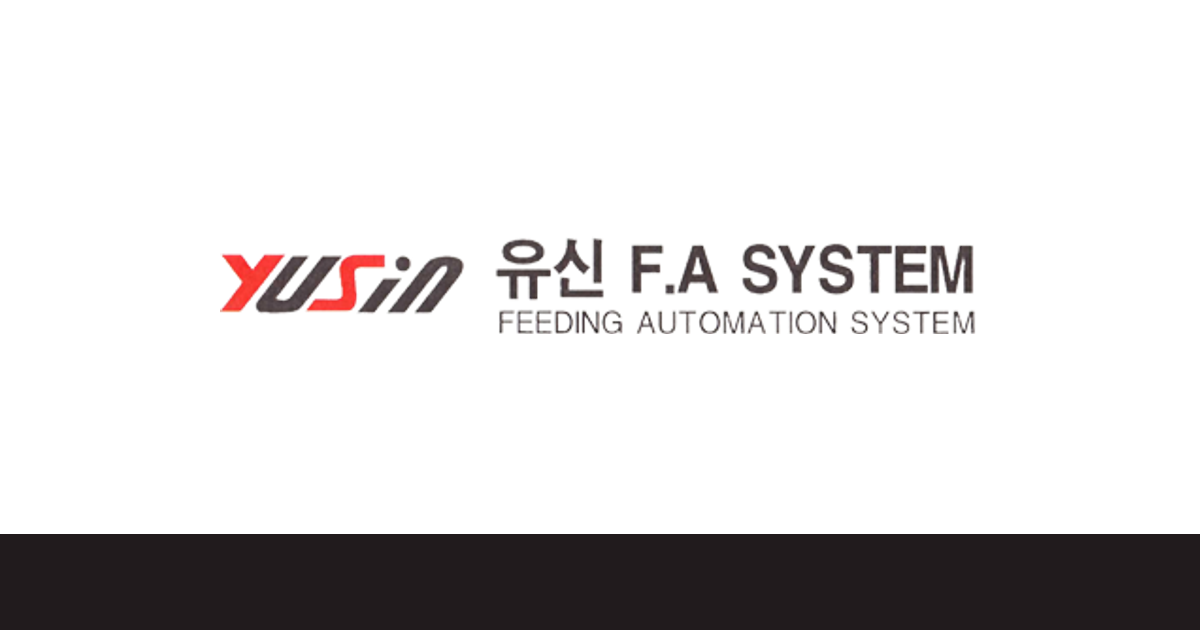
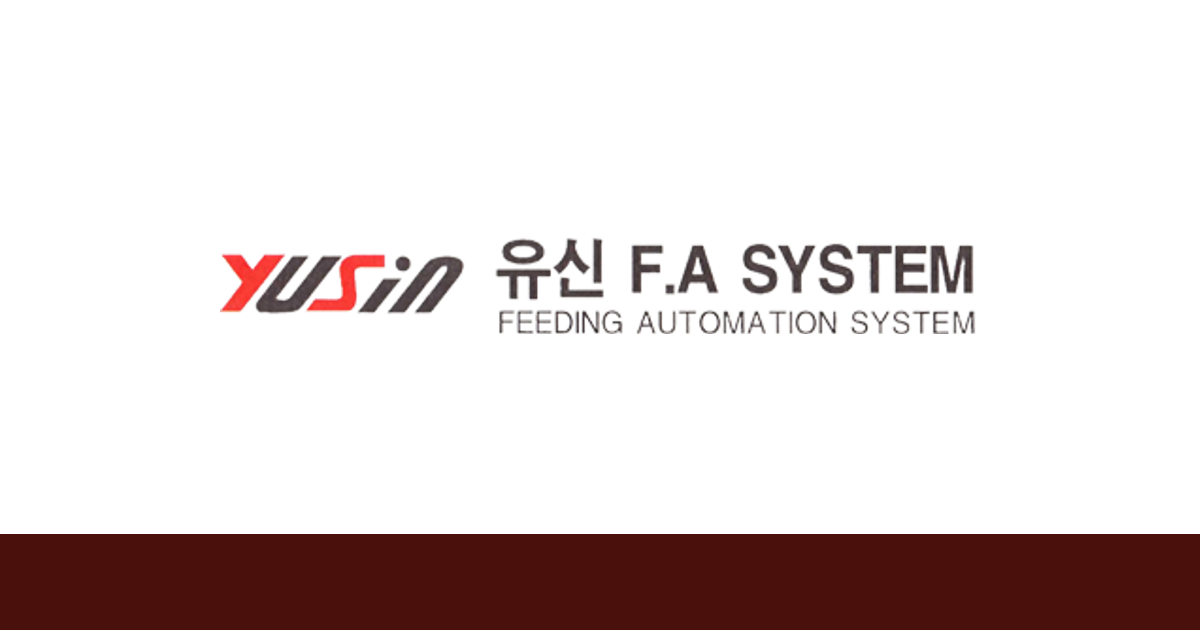
레드를 메인 컬러로 올렸다
앞 커밋에서 로고의 픽셀 비중(차콜 75% · 레드 6%)을 그대로 따라 차콜을
주인공으로 뒀더니 사이트가 통째로 먹색이 됐다. 비중과 주인공은 다르다 —
로고에서 차콜은 글자를 쓰는 먹이고 시그니처는 레드다.

토큰
- carbon-deep #211b1d 를 지우고 brand-deep #4a100c 를 넣었다.
  로고 레드 #fb271f 의 명도만 내린 값이다
- carbon #332b2d 는 그대로 — 역할(틀·폼 컨트롤)이 바뀌지 않는다

큰 색면이 전부 와인레드가 됐다 — 홈 첫 화면 · 하단 문의 띠(9쪽) ·
〈경영이념〉 패널 · 사진과 영상 위의 막 · OG 이미지 띠.

⚠ 레드가 면과 행동을 둘 다 맡는다. 되는 이유는 두 레드의 명도가 충분히
벌어져 있기 때문이다(#4a100c ↔ #d5261e 3.01:1) — 그래서 문의 버튼은
지금처럼 빨간색 그대로다. 면을 #4a100c 보다 밝게 올리면 버튼이 묻힌다.

손으로 본 두 곳
- 전송 완료 「확인」 버튼의 hover 가 carbon-deep 이었다. 기계 치환했으면
  차콜 버튼이 마우스를 올릴 때 빨개졌을 것이다 — hover:bg-ink 로 돌렸다
- 〈경영이념〉 패널 안 사진 자리는 carbon 유지. 패널(luma 28.0)보다
  carbon(44.8)이 여전히 밝아 칸이 그대로 보인다

대비 (전부 AA·AAA 를 넘는다)
- 흰 제목 16.95 → 15.32:1 · white/70 본문 8.85 → 7.98:1
- 레드 버튼 분리 3.33 → 3.01:1 · brand-light 6.07 → 5.48:1
- 영상 자막 아홉 편 다시 쟀다. 가장 밝은 진동기 14.2 → 13.3:1
  (두 색의 luma 가 28.4 와 28.0 으로 거의 같아 차이가 작다)
- 제품 카드 호버는 사진이 붉게 물든다 — 고르며 알고 받아들인 자리다.
  호버한 카드를 찍어 픽셀로 재니 흰 글자 9.5:1 로 AAA 를 넘는다

⚠ npm run assets 는 돌리지 않았다. og-image.png 한 장만 다시 뽑았다.

Changed region(s): [[0.0, 0.8444, 1.0, 1.0]]

diff --git a/src/app/globals.css b/src/app/globals.css
@@ -6,10 +6,23 @@
   **색은 둘뿐이다 — 로고의 레드와 로고의 차콜.** 둘 다 logo.png 에서 직접
   뽑았다(픽셀 전수 집계: 레드 #fb271f 약 6% · 차콜 #4d4244 약 75%).
 
-  - **레드(brand)** = 행동과 현재 위치. CTA 버튼 · 선택된 항목 · 강조선 ·
-    라벨. 여전히 **면적은 좁게**.
-  - **차콜(carbon)** = 면과 틀. 어두운 바탕 · 영상 막 · 보조 버튼 테두리 ·
-    폼 컨트롤.
+  **레드가 메인이다.**
+
+  - **brand #d5261e** = 행동과 현재 위치. CTA 버튼 · 선택된 항목 ·
+    강조선 · 라벨
+  - **brand-deep #4a100c** = **큰 색면**. 홈 첫 화면 · 하단 문의 띠 ·
+    〈경영이념〉 패널 · 사진과 영상 위의 막
+  - **carbon #332b2d** = **틀**. 폼 컨트롤 · 보조 버튼 테두리 ·
+    〈제품 분류〉 머리띠 · 조직도 아래 단계
+
+  ⚠⚠ **2026-10-14 에 두 번 바꿨다.** 처음에는 로고의 **픽셀 비중**(차콜
+     75% · 레드 6%)을 그대로 따라 차콜을 주인공으로 뒀는데, 사이트가 통째로
+     먹색이 됐다. **비중과 주인공은 다르다** — 로고에서 차콜은 글자를 쓰는
+     먹이고 **시그니처는 레드**다. 그래서 큰 면을 레드 쪽으로 넘겼다.
+
+  ⚠ 레드가 **면과 행동을 둘 다** 맡는다. 되는 이유는 두 레드의 명도가
+     충분히 벌어져 있기 때문이다(#4a100c ↔ #d5261e 가 3.01:1). **면을
+     #4a100c 보다 밝게 올리지 말 것** — 올리는 순간 버튼이 면에 묻힌다.
 
   ⚠⚠ **파랑은 쓰지 않는다.** 2026-10-14 에 네이비(#0b3c8d / #06265c)를
      전부 걷었다. 그 색은 로고가 아니라 **소개서 PPT 타이틀 슬라이드 배경**
@@ -26,17 +39,25 @@
 @theme {
   /* 로고 레드(#e8322a)는 흰 배경에서 4.27:1로 WCAG AA(4.5:1)에 못 미친다.
      본문·버튼에는 살짝 어둡게 조정한 값을 쓰고(흰 배경 5.1:1), 어두운 면 위에는
-     밝은 쪽(brand-light — carbon-deep 위 6.07:1)을 쓴다. 로고 이미지 자체는
+     밝은 쪽(brand-light — brand-deep 위 5.48:1)을 쓴다. 로고 이미지 자체는
      원본 색 그대로다. */
   --color-brand: #d5261e;
   --color-brand-dark: #b41f18;
   --color-brand-light: #ff6b5e;
-  /* 로고 차콜(#4d4244, H349 S8 L28)의 색상은 그대로 두고 밝기만 내린 두
-     단계다. 임의로 고른 회색이 아니라 **로고에서 나온 값**이다.
+  /* 큰 색면. 로고 레드(#fb271f)의 **명도만** 내린 값이다 — 색상은 그대로다.
 
-     ⚠ 검정(#000)으로 내리지 말 것 — 붉은기가 빠지면 로고와 남이 된다. */
-  --color-carbon: #332b2d;      /* H345 S8.5 L18 — 틀 · 폼 컨트롤 · 작은 면 */
-  --color-carbon-deep: #211b1d; /* H340 S10  L12 — 넓은 어두운 면 · 영상 막 */
+     ⚠ 이 자리에 한때 carbon-deep(#211b1d, 먹색)이 있었다. 두 색의 luma 가
+        28.0 과 28.4 로 거의 같아서, 갈아 끼워도 영상 위 자막 대비는 거의
+        그대로다(가장 밝은 진동기 14.2 -> 13.3:1). 구조는 안 건드리고 색만
+        바뀐 이유가 이것이다. */
+  --color-brand-deep: #4a100c;
+
+  /* 틀. 로고 차콜(#4d4244, H349 S8 L28)의 색상을 그대로 두고 밝기만 내렸다.
+     임의로 고른 회색이 아니라 **로고에서 나온 값**이다.
+
+     ⚠ 검정(#000)으로 내리지 말 것 — 붉은기가 빠지면 로고와 남이 된다.
+     ⚠ 폼 컨트롤(체크박스)을 레드로 바꾸지 말 것 — 빨간 칸은 오류로 읽힌다. */
+  --color-carbon: #332b2d;      /* H345 S8.5 L18 */
 
   --color-ink: #1a1d23;
   --color-ink-soft: #414751;

diff --git a/src/components/ProductVideo.tsx b/src/components/ProductVideo.tsx
@@ -102,28 +102,30 @@ export default function ProductVideo({
                영상이 display:none 이 되어도 뒤에 깔린 정지컷 위에 설명이
                그대로 남는다.
 
-            ⚠ 흰 글씨가 읽히는 것은 그라데이션 덕이다. **2026-10-14 에 막을
-               navy-deep 에서 carbon-deep 으로 갈면서 아홉 편을 다시 쟀다**
-               (막 자체 luma 35.1 -> 28.4 로 더 어두워져 대비가 올라갔다).
+            ⚠ 흰 글씨가 읽히는 것은 그라데이션 덕이다. **2026-10-14 에 막이
+               두 번 바뀌어(navy-deep -> carbon-deep -> brand-deep) 그때마다
+               아홉 편을 다시 쟀다.**
 
                포스터의 하단 22% 띠 평균 Y 와, 그 위에 /85 를 덮은 뒤의
                흰 글자 대비 —
 
-                 영상            띠 Y    navy 때   지금(carbon)
-                 bowl-feeder      64.7   14.1:1  ->  15.9:1
-                 controller       87.0   13.5:1  ->  15.3:1
-                 linear-feeder    96.2   13.2:1  ->  15.0:1
-                 soundproof       100.4  13.1:1  ->  14.9:1
-                 urethane         101.9  13.1:1  ->  14.8:1
-                 hopper-feeder    117.4  12.7:1  ->  14.4:1
-                 vibrator         124.5  12.5:1  ->  14.2:1   <- 가장 밝음
+                 영상            띠 Y    차콜 때   지금(와인레드)
+                 bowl-feeder      64.7   15.9:1  ->  14.8:1
+                 controller       87.0   15.3:1  ->  14.3:1
+                 linear-feeder    96.2   15.0:1  ->  14.0:1
+                 soundproof       100.4  14.9:1  ->  13.9:1
+                 urethane         101.9  14.8:1  ->  13.9:1
+                 hopper-feeder    117.4  14.4:1  ->  13.5:1
+                 vibrator         124.5  14.2:1  ->  13.3:1   <- 가장 밝음
 
-               가장 밝은 진동기도 14.2:1 로 AAA(7:1)의 두 배다.
+               가장 밝은 진동기도 13.3:1 로 AAA(7:1)의 **두 배 가까이**다.
+               차콜에서 와인레드로 바뀌며 한 단계 내려갔지만(두 색의 luma 가
+               28.4 와 28.0 으로 거의 같아 차이가 작다) 여유가 충분하다.
                영상을 갈아 끼울 때 하단이 더 밝으면 다시 잰다.
 
             pointer-events-none — 누를 것이 없는 장식 영상이라 마우스를
             가로채지 않는다. */}
-        <div className="pointer-events-none absolute inset-x-0 bottom-0 bg-gradient-to-t from-carbon-deep/85 via-carbon-deep/40 to-transparent px-5 pb-5 pt-12 sm:px-6 sm:pb-6">
+        <div className="pointer-events-none absolute inset-x-0 bottom-0 bg-gradient-to-t from-brand-deep/85 via-brand-deep/40 to-transparent px-5 pb-5 pt-12 sm:px-6 sm:pb-6">
           <p className="text-13 font-medium leading-relaxed text-white sm:text-sm">
             {video.note}
           </p>

diff --git a/src/app/page.tsx b/src/app/page.tsx
@@ -79,7 +79,7 @@ export default function Home() {
 
       {/* 1. Hero — 헤더를 뺀 한 화면에 지표 줄까지 전부 들어가야 한다.
           화면이 낮아지면 패딩·글자·이미지가 clamp()로 같이 줄어든다. */}
-      <section className="hero-screen relative flex flex-col overflow-hidden bg-carbon-deep">
+      <section className="hero-screen relative flex flex-col overflow-hidden bg-brand-deep">
         {/* 배경 2 — 실제 피더가 도는 영상.
 
             유튜브 iframe 을 쓰지 않는다. 홈은 외부 요청이 0건이고(그러려고
@@ -168,12 +168,12 @@ export default function Home() {
             가장자리 비네트, 3D 도면 뒤를 눌러 주는 자리. 하위 페이지 배너는
             장식을 모두 걷어 바탕 한 장으로 세웠는데 홈만 다섯이라, 영상(제품이
             도는 모습이니 내용이다)과 이 오버레이만 남겼다. 바닥 그라디언트는
-            section 의 bg-carbon-deep 과 거의 같은 색을 한 번 더 까는 것이었고,
+            section 의 bg-brand-deep 과 거의 같은 색을 한 번 더 까는 것이었고,
             비네트와 도면 뒤 자리는 도면이 흰 금속이라 어두운 영상 위에서 그
             자체로 구분돼 없어도 읽힌다. */}
         <div
           aria-hidden="true"
-          className="pointer-events-none absolute inset-0 bg-gradient-to-r from-carbon-deep via-carbon-deep/75 to-transparent"
+          className="pointer-events-none absolute inset-0 bg-gradient-to-r from-brand-deep via-brand-deep/75 to-transparent"
         />
 
         <Container className="relative flex flex-1 items-center py-[clamp(1.5rem,4vh,3.5rem)]">
@@ -382,10 +382,10 @@ export default function Home() {
                  으로 다시 뽑아 눈으로 가렸다.
 
             ⚠ 하단 22% 띠 Y 평균 107.3(최대 111.5). 기존 제품 영상 일곱 편이
-               66~115 이니 그 안이고, carbon-deep/85 를 덮으면 흰 글자 대비가
-               **14.7:1** 이라 AAA(7:1)의 두 배다.
-               (2026-10-14 에 막을 navy-deep 에서 갈면서 다시 쟀다 — 막이
-                더 어두워져 13.0 -> 14.7 로 올라갔다.) */}
+               66~115 이니 그 안이고, brand-deep/85 를 덮으면 흰 글자 대비가
+               **13.8:1** 이라 AAA(7:1)의 두 배 가까이다.
+               (2026-10-14 에 막이 두 번 바뀌며 다시 쟀다 —
+                navy 13.0 -> 차콜 14.7 -> 와인레드 13.8.) */}
         <ProductVideo
           video={{
             src: "/videos/performance.mp4",

diff --git a/src/components/VideoCard.tsx b/src/components/VideoCard.tsx
@@ -19,7 +19,7 @@ import VideoEmbed from "./VideoEmbed";
  * 수단이다(videos.ts 머리 주석).
  *
  * 그리고 이쪽은 유튜브 파사드라 썸네일 위에 재생 버튼과 어두운
- * 겹(carbon-deep/25)이 이미 있다 — 거기에 자막 그라데이션을 더하면 두 겹이
+ * 겹(brand-deep/25)이 이미 있다 — 거기에 자막 그라데이션을 더하면 두 겹이
  * 된다.
  *
  * 카드에 호버를 두지 않는다. ProductCard 는 카드 전체가 링크라 떠오르는 것이
@@ -59,11 +59,11 @@ export default function VideoCard({
                밝기를 420프레임씩 재니 평균 Y 60~62, 가장 밝은 순간이 138.8
                이었다(금속 부품 쪽).
 
-               2026-10-14 에 막을 navy-deep 에서 carbon-deep 으로 갈았다 —
-               막 자체 luma 가 35.1 -> 28.4 로 내려가 **대비가 올라갔다**.
-               /85 를 덮은 뒤 흰 글씨 대비는 평균에서 16.0:1, 가장 밝은
-               순간(138.8)에도 13.8:1 이다(navy 때 각각 14.2 · 12.1).
-               AAA(7:1)의 두 배다.
+               2026-10-14 에 막이 두 번 바뀌었다 — navy-deep -> carbon-deep
+               -> brand-deep(와인레드). /85 를 덮은 뒤 흰 글씨 대비는 평균에서
+               14.9:1, 가장 밝은 순간(138.8)에도 12.9:1 이다
+               (navy 때 14.2 · 12.1 / 차콜 때 16.0 · 13.8).
+               AAA(7:1)의 두 배 가까이다.
                영상을 갈아 끼울 때 하단이 더 밝으면 다시 잰다.
 
             패딩이 ProductVideo 보다 좁은 폭에서 작다. 그쪽은 본문 전체 폭을
@@ -72,7 +72,7 @@ export default function VideoCard({
 
             pointer-events-none — 누를 것이 없는 장식 영상이라 마우스를
             가로채지 않는다. */}
-        <div className="pointer-events-none absolute inset-x-0 bottom-0 bg-gradient-to-t from-carbon-deep/85 via-carbon-deep/40 to-transparent px-4 pb-4 pt-9 sm:px-5 sm:pb-5 sm:pt-10 lg:px-6 lg:pb-6 lg:pt-12">
+        <div className="pointer-events-none absolute inset-x-0 bottom-0 bg-gradient-to-t from-brand-deep/85 via-brand-deep/40 to-transparent px-4 pb-4 pt-9 sm:px-5 sm:pb-5 sm:pt-10 lg:px-6 lg:pb-6 lg:pt-12">
           <p className="text-13 font-medium leading-relaxed text-white sm:text-sm">
             {video.note}
           </p>

diff --git a/src/app/company/page.tsx b/src/app/company/page.tsx
@@ -190,7 +190,7 @@ export default function CompanyPage() {
           <Reveal
             as="aside"
             delay={80}
-            className="rounded-2xl bg-carbon-deep p-7 sm:p-8 lg:col-start-2 lg:row-start-1"
+            className="rounded-2xl bg-brand-deep p-7 sm:p-8 lg:col-start-2 lg:row-start-1"
           >
             <p className="text-xs font-bold tracking-[0.08em] text-brand-light">
               경영이념
@@ -223,8 +223,9 @@ export default function CompanyPage() {
                     {item.title}
                   </p>
                   {/* bg-carbon 은 사진이 뜨기 전 자리를 지킨다. 패널이
-                      carbon-deep 이라 **한 단계 밝은** carbon 이 칸으로 보인다.
-                      ⚠ 둘을 같은 색으로 두지 말 것 — 칸이 사라진다.
+                      brand-deep(와인레드, luma 28.0)이라 **한 단계 밝은**
+                      carbon(luma 44.8)이 칸으로 보인다.
+                      ⚠ 둘을 같은 밝기로 두지 말 것 — 칸이 사라진다.
                       rounded-lg 는 패널(rounded-2xl)보다 두 단계 작다 — 작은
                       칸에 같은 반경을 주면 모서리만 눈에 띈다. */}
                   {/* ⚠⚠ **3:2 다.** 이 비율이 패널 높이를 정하고, 패널
@@ -267,7 +268,7 @@ export default function CompanyPage() {
                         99~119px)보다도 줄였다.
 
                         pointer-events-none — 누를 것이 없다. */}
-                    <div className="pointer-events-none absolute inset-x-0 bottom-0 bg-gradient-to-t from-carbon-deep/85 via-carbon-deep/40 to-transparent px-3 pb-2 pt-6">
+                    <div className="pointer-events-none absolute inset-x-0 bottom-0 bg-gradient-to-t from-brand-deep/85 via-brand-deep/40 to-transparent px-3 pb-2 pt-6">
                       <p className="text-center text-xs font-medium leading-snug text-white">
                         {item.caption}
                       </p>

diff --git a/src/components/ProductCard.tsx b/src/components/ProductCard.tsx
@@ -73,7 +73,10 @@ export default function ProductCard({ product }: { product: Product }) {
             로 커져 같은 줄 카드 셋과 그 아래가 전부 밀린다. 자리를 사진 위로
             옮겨 그 흔들림을 없앴다.
 
-            막은 carbon-deep 65% 다. 눈대중이 아니라, 가장 밝은 사진(진동기 -
+            막은 brand-deep 65% 다. ⚠ 2026-10-14 부터 **와인레드**라 호버할 때
+            사진이 붉게 물든다 — 색을 고르며 알고 받아들인 것이다. 호버한 카드를
+            찍어 픽셀로 재니 흰 "상세보기" 대비가 **9.5:1** 로 AAA(7:1)를 넘는다.
+            눈대중이 아니라, 가장 밝은 사진(진동기 -
             흰 배경 3D 도면) 위에서도 흰 글자가 읽히는 값을 대비로 구했다.
             흰 바탕 기준 45%:2.73  55%:3.61  60%:4.18  65%:4.88  70%:5.71 이라,
             AA(4.5:1)를 넘기는 첫 값이 65% 다. 어두운 사진 위에서는 더 높다.
@@ -92,7 +95,7 @@ export default function ProductCard({ product }: { product: Product }) {
             그대로 보이고, 카드 전체가 누르는 자리다. */}
         <div
           aria-hidden="true"
-          className="pointer-events-none absolute inset-0 flex items-center justify-center bg-carbon-deep/65 opacity-0 transition-opacity duration-300 group-hover:opacity-100"
+          className="pointer-events-none absolute inset-0 flex items-center justify-center bg-brand-deep/65 opacity-0 transition-opacity duration-300 group-hover:opacity-100"
         >
           <span className="flex translate-y-1 items-center gap-1.5 text-sm font-bold text-white transition-transform duration-300 group-hover:translate-y-0">
             상세보기

diff --git a/src/components/VideoEmbed.tsx b/src/components/VideoEmbed.tsx
@@ -161,7 +161,7 @@ export default function VideoEmbed({
           />
           <span
             aria-hidden="true"
-            className="absolute inset-0 bg-carbon-deep/25 transition-colors group-hover:bg-carbon-deep/10"
+            className="absolute inset-0 bg-brand-deep/25 transition-colors group-hover:bg-brand-deep/10"
           />
           {/* 맨 위로 버튼(BackToTop)과 같은 언어다 — rounded-full + bg-white
               + text-ink + shadow-card. 전에는 64px 브랜드 레드 원이었는데,
@@ -169,7 +169,7 @@ export default function VideoEmbed({
               레드는 강조 한 점에만 쓰는 색이다.
 
               흰 원이 밝은 썸네일 위에서도 보이는 것은 바로 위의 어두운
-              겹(carbon-deep/25) 덕이다. 그 겹을 지우면 원이 묻힌다.
+              겹(brand-deep/25) 덕이다. 그 겹을 지우면 원이 묻힌다.
 
               호버 확대는 1.1 에서 1.06 으로 줄였다. */}
           <span
@@ -195,7 +195,7 @@ export default function VideoEmbed({
           href={watchUrl}
           target="_blank"
           rel="noopener noreferrer"
-          className="absolute inset-0 flex items-end bg-carbon-deep/40 p-4 text-sm font-semibold text-white"
+          className="absolute inset-0 flex items-end bg-brand-deep/40 p-4 text-sm font-semibold text-white"
         >
           {video.title} — 유튜브에서 보기
         </a>

diff --git a/src/components/InquiryForm.tsx b/src/components/InquiryForm.tsx
@@ -265,12 +265,17 @@ export default function InquiryForm() {
                성공 화면에 레드가 없는 것이 지금 상태다. 이 버튼은 행동이 아니라
                **화면을 닫는 것**이다.
 
+            ⚠ hover 가 **ink** 다. 한때 brand-deep 이었는데, 2026-10-14 에
+               그 토큰이 brand-deep(와인레드)으로 바뀌면서 **차콜 버튼에 마우스를
+               올리면 빨개지는** 상태가 됐다. 같은 계열로 한 단계 어두워지는
+               것이 맞아 ink 로 돌렸다.
+
             ⚠ 폭을 320px 로 묶는다. 바깥이 max-w-3xl(768px)이라 전폭으로 두면
                버튼 하나가 과하게 길어진다. */}
         <button
           type="button"
           onClick={() => setStatus("idle")}
-          className="mx-auto mt-8 block w-full max-w-[20rem] rounded-xl bg-carbon py-3.5 text-15 font-bold text-white transition hover:bg-carbon-deep active:scale-[0.99]"
+          className="mx-auto mt-8 block w-full max-w-[20rem] rounded-xl bg-carbon py-3.5 text-15 font-bold text-white transition hover:bg-ink active:scale-[0.99]"
         >
           확인
         </button>

diff --git a/src/components/ContactCTA.tsx b/src/components/ContactCTA.tsx
@@ -47,7 +47,7 @@ export default function ContactCTA() {
        ⚠ 이 주석을 JSX 주석({ /* ... *\/ })으로 바꾸지 말 것. return (
           바로 뒤에 두면 주석과 <section> 이 **자식 둘**이 되어
           "Expected ',', got 'ident'" 로 빌드가 깨진다. */
-    <section className="relative bg-carbon-deep">
+    <section className="relative bg-brand-deep">
       {/* ⚠ 그레인이 Container **앞**에 있다. DOM 순서상 글자가 위로 온다.
              단색 면이라 히어로(0.08)보다 진하게 0.12 를 준다. */}
       <div

diff --git a/src/data/products.ts b/src/data/products.ts
@@ -1607,7 +1607,7 @@ export const products: Product[] = [
        그대로 맞는다.
 
        ⚠ 자막 대비를 다시 쟀다. 하단 22% 띠의 Y 평균 110.9(최소 94 ·
-          최대 121)로, 기존 일곱 편의 범위(89.9~116.4) 안이다. carbon-deep/85
+          최대 121)로, 기존 일곱 편의 범위(89.9~116.4) 안이다. brand-deep/85
           를 덮으면 흰 글씨 대비가 15:1 안팎이라 AAA(7:1)를 크게 넘는다. */
     video: {
       src: "/videos/product-urethane-coating.mp4",

diff --git a/src/components/Section.tsx b/src/components/Section.tsx
@@ -53,7 +53,7 @@ type Props = {
 const TONE = {
   white: "bg-white",
   surface: "bg-surface",
-  dark: "bg-carbon-deep text-white",
+  dark: "bg-brand-deep text-white",
 } as const;
 
 /*
